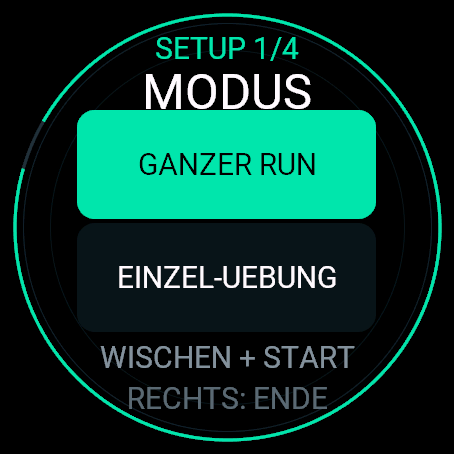
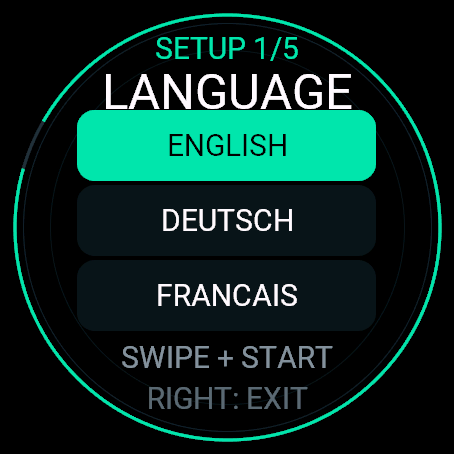
Add English German and French UI

diff --git a/README.md b/README.md
@@ -9,7 +9,7 @@ fitness brand. Product and company names are intentionally omitted from the app.
 ## Screenshots
 
 <p align="center">
-  <img src="docs/screenshots/setup.png" alt="Race mode setup in the Garmin Venu 3 simulator" width="31%">
+  <img src="docs/screenshots/setup.png" alt="Language setup in the Garmin Venu 3 simulator" width="31%">
   <img src="docs/screenshots/order.png" alt="Workout order setup in the Garmin Venu 3 simulator" width="31%">
   <img src="docs/screenshots/active.png" alt="Active training screen in the Garmin Venu 3 simulator" width="31%">
 </p>
@@ -19,6 +19,7 @@ fitness brand. Product and company names are intentionally omitted from the app.
 ## Features
 
 - Full race or single-station mode
+- First-launch language selection: English, German, or French
 - Women/Men and Open/Pro load presets
 - 25%, 50%, or 100% distance and repetition scaling
 - Freely reorderable workout stations
@@ -36,6 +37,7 @@ session results.
 
 ## Controls
 
+- First setup step: choose English, German, or French
 - Swipe in setup: change selection
 - Start key: confirm a selection
 - Start key on the order screen: enter or leave move mode
